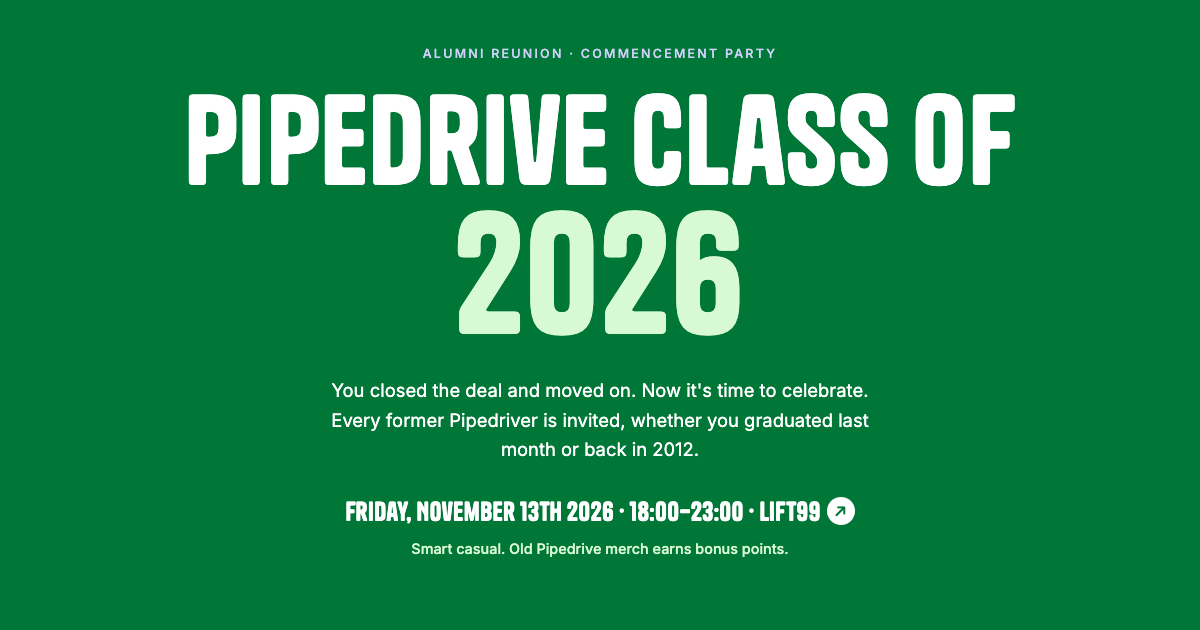
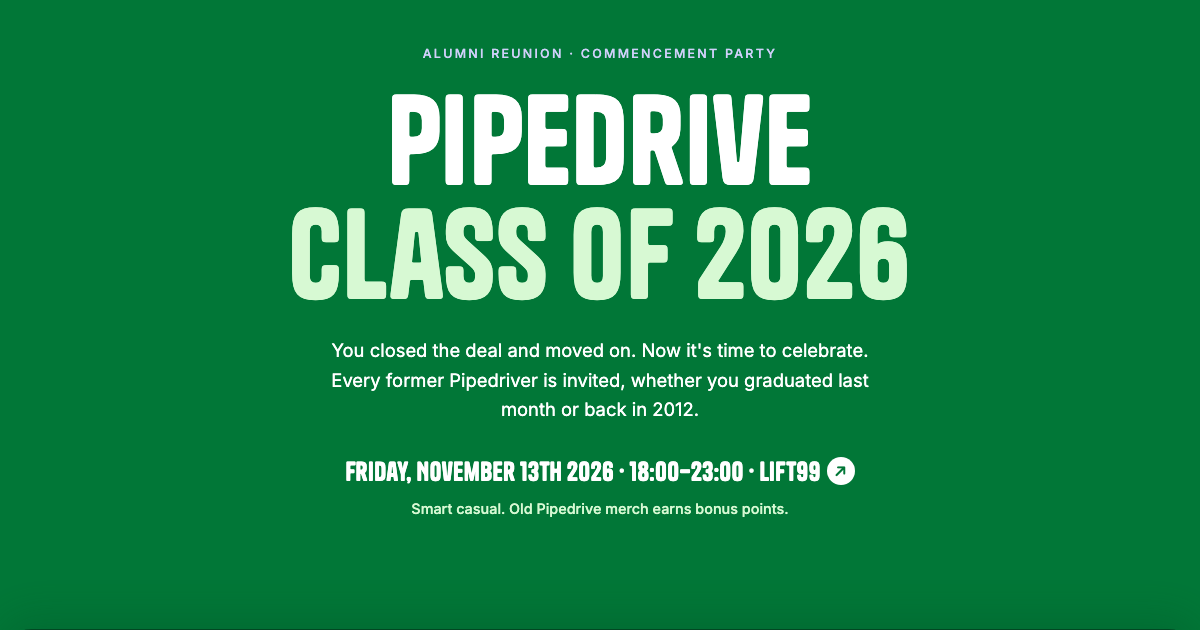
Put Class of 2026 on its own line in light green

Changed region(s): [[0.2158, 0.3317, 0.7708, 0.9048], [0.1542, 0.1508, 0.8633, 0.3016], [0.0, 0.9952, 0.9867, 1.0]]

diff --git a/index.html b/index.html
@@ -165,7 +165,6 @@ h1 {
 h1 .year {
   display: block;
   color: var(--banner-accent);
-  font-size: 1.35em;
 }
 .lede {
   max-width: 36rem;
@@ -353,7 +352,7 @@ footer .wrap {
 <header class="banner">
   <div class="wrap">
     <p class="eyebrow">Alumni reunion · Commencement party</p>
-    <h1>Pipedrive Class of <span class="year">2026</span></h1>
+    <h1>Pipedrive <span class="year">Class of 2026</span></h1>
     <p class="lede">You closed the deal and moved on. Now it's time to celebrate. Every former Pipedriver is invited, whether you graduated last month or back in 2012.</p>
     <ul class="facts" aria-label="Party details">
       <li class="fact-when"><span id="fact-date"></span> · <span id="fact-place"></span></li>
